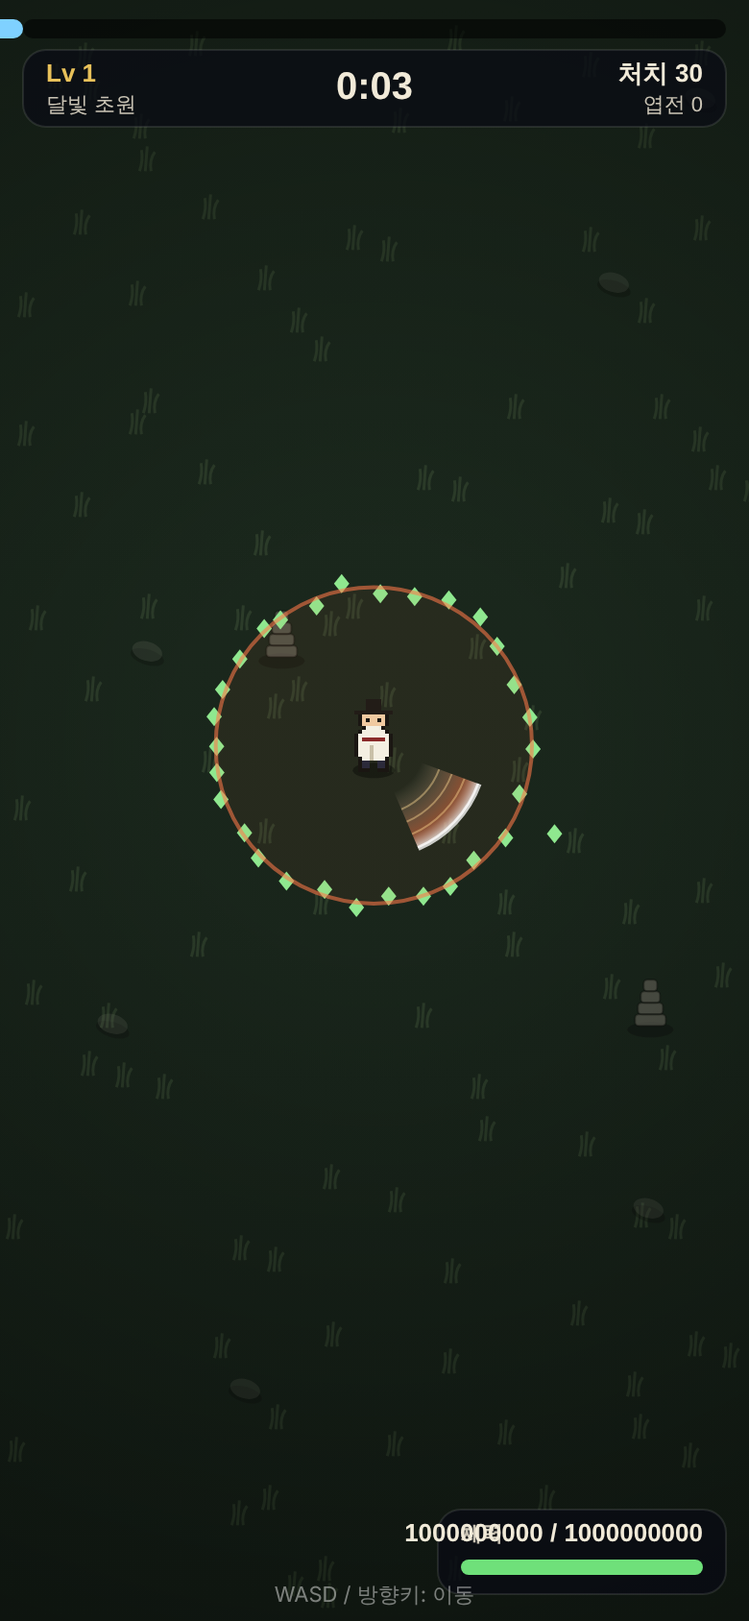
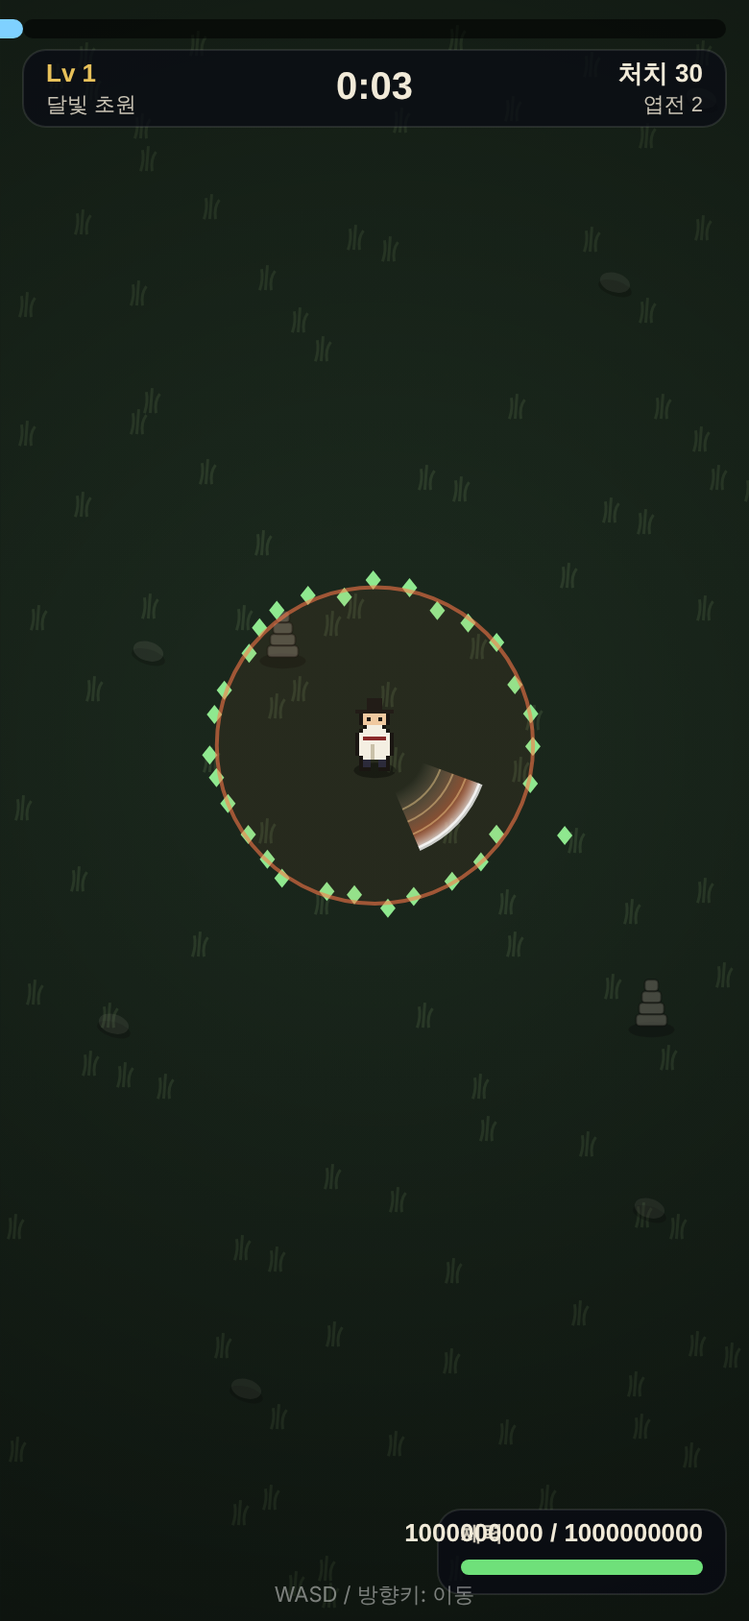
밤의 퇴마사 M4①: 런 슬롯 무기5/패시브5, 패시브 +4(도롱이·소금 주머니·녹두·부적 가방), 중립 무기 2(종이 호랑이·쑥뜸 연기)
Claude-Session: https://claude.ai/code/session_01RmJvEQYZMU41pMZMsu4AKq

diff --git a/games/night-exorcist/index.html b/games/night-exorcist/index.html
@@ -39,7 +39,7 @@
   .tabs { display:flex; gap:6px; margin-bottom:12px; } .tabs button { flex:1; min-height:40px; font-size:13px; padding:0 4px; } .tabs button.on { background:rgba(232,193,90,.22); }
   .grid { display:grid; grid-template-columns:repeat(4,1fr); gap:8px; } .grid .w { background:rgba(255,255,255,.06); border:1px solid rgba(255,255,255,.12); border-radius:12px; padding:8px 4px; text-align:center; font-size:12px; color:#f1ead8; min-height:72px; box-shadow:none; font-weight:500; }
   .grid .w.in { border-color:#e8c15a; background:rgba(232,193,90,.18); } .grid .w.off { opacity:.35; } .grid .w small { display:block; font-size:10px; color:#c9c3b4; margin-top:2px; } .grid .w canvas { width:28px; height:28px; display:block; margin:0 auto 2px; }
-  .el-fire { color:#ff7a4a } .el-water { color:#5fc8ff } .el-wood { color:#7fe06a } .el-metal { color:#d8d8e8 }
+  .el-fire { color:#ff7a4a } .el-water { color:#5fc8ff } .el-wood { color:#7fe06a } .el-metal { color:#d8d8e8 } .el-none { color:#c9c3b4 }
   #shrine { max-height:88vh; overflow-y:auto; } .big.sm { min-height:44px; font-size:15px; margin-top:8px; }
   .rank { font-size:13px; padding:6px 0; border-bottom:1px solid rgba(255,255,255,.08); display:flex; justify-content:space-between; }
   @media (prefers-reduced-motion: reduce) { .panel { transition:none; } }
@@ -230,10 +230,17 @@ const WEAPONS = [
   { id:'coin',     el:'metal', type:'throw', name:'엽전표창', desc:'빠르게 날아가 튕겨 나간다',                   cd:.6, dmg:8, spd:460, pierce:1, max:5, up:'피해 +25% · 관통 +1' },
   { id:'sickle',   el:'metal', type:'melee', name:'낫',       desc:'앞을 깊게 베고 밀쳐낸다',                    cd:1.3, dmg:18, arc:1.3, range:70, max:5, up:'피해 +25% · 범위 +12%' },
   { id:'bell',     el:'metal', type:'aura',  name:'방울',     desc:'주변 요괴를 계속 흔들어 느리게 한다',         cd:.5, dmg:4, range:70, slow:.2, max:5, up:'피해 +25% · 반경 +12%' },
+  // 중립(무속성·무타입): 상성 ×1 고정, 불리 없음, 진화 문법 제외
+  { id:'tiger',    neutral:true, kind:'pet',  name:'종이 호랑이', desc:'종이 호랑이가 곁을 돌며 요괴를 문다 (상성 없음)', cd:.55, dmg:9, orbit:54, max:5, up:'피해 +25% · 호랑이 +1 (3·5단)' },
+  { id:'moxa',     neutral:true, kind:'aura', name:'쑥뜸 연기',   desc:'연기 안의 요괴에게 피해, 안에서 처치하면 체력 +2 (상성 없음)', cd:.6, dmg:3, range:62, max:5, up:'피해 +25% · 반경 +12%' },
 ];
+const NEUTRALS = WEAPONS.filter(w => w.neutral);
+const gachaPool = () => WEAPONS.filter(w => !w.unlock || META.bestStage >= w.unlock);   // unlock: 해당 스테이지 클리어 후 뽑기 풀에 등장
 const WBY = Object.fromEntries(WEAPONS.map(w => [w.id, w]));
+const wTag = w => w.neutral ? '중립' : `${EL_NAME[w.el]}·${TYPE_NAME[w.type]}`;
 const elMul = (we, el) => el === 'none' || we === el ? 1 : BEATS[we] === el ? 1.5 : BEATS[el] === we ? .6 : 1;
 const affinity = (w, o) => { const el = o.el || (o.d && o.d.el) || 'none', armor = o.armor || (o.d && o.d.armor) || 'none';
+  if (w.neutral) return 1;
   if (w.els) return Math.max(1, ...w.els.map(we => elMul(we, el))) * Math.max(1, ...w.types.map(t => TYPE_VS[t][armor] || 1));   // 진화: 불리 없음
   return elMul(w.el, el) * (TYPE_VS[w.type][armor] || 1); };
 // ── 진화: 2단 = 같은 속성·다른 타입 쌍(12) + 같은 타입·다른 속성 쌍(18) · 3단 = 속성 삼위일체(4) + 타입 사원소(3). 런 안에서 부모 Lv5 → 자식 Lv1, 부모 소모
@@ -248,7 +255,7 @@ const EVO_NAME = {
   'aura:fire+water':'온천 안개', 'aura:fire+wood':'향로 염주', 'aura:fire+metal':'화로 방울', 'aura:water+wood':'안개 염주', 'aura:water+metal':'물방울 종', 'aura:wood+metal':'염주 방울',
   'fire:all':'삼매진화', 'water:all':'용궁 해일', 'wood:all':'천년 신목', 'metal:all':'만금 종', 'throw:all':'사원소 표창', 'melee:all':'사원소 검', 'aura:all':'사원소 결계' };
 const ELS = ['fire', 'water', 'wood', 'metal'], TYPES = ['throw', 'melee', 'aura'];
-const baseOf = (el, type) => WEAPONS.find(w => w.el === el && w.type === type);
+const baseOf = (el, type) => WEAPONS.find(w => !w.neutral && w.el === el && w.type === type);
 const EVOS = []; // { id, name, tier, parents:[ids], parts:[base ids], els, types, max:5 }
 for (const el of ELS) for (let i = 0; i < 3; i++) for (let j = i + 1; j < 3; j++) { const a = baseOf(el, TYPES[i]), b = baseOf(el, TYPES[j]); EVOS.push({ id:`e:${el}:${TYPES[i]}+${TYPES[j]}`, name:EVO_NAME[`${el}:${TYPES[i]}+${TYPES[j]}`], tier:2, parents:[a.id, b.id], parts:[a.id, b.id], els:[el], types:[TYPES[i], TYPES[j]], max:5, up:'피해 +25%' }); }
 for (const type of TYPES) for (let i = 0; i < 4; i++) for (let j = i + 1; j < 4; j++) { const a = baseOf(ELS[i], type), b = baseOf(ELS[j], type); EVOS.push({ id:`e:${type}:${ELS[i]}+${ELS[j]}`, name:EVO_NAME[`${type}:${ELS[i]}+${ELS[j]}`], tier:2, parents:[a.id, b.id], parts:[a.id, b.id], els:[ELS[i], ELS[j]], types:[type], max:5, up:'피해 +25%' }); }
@@ -273,11 +280,17 @@ const trainCost = lv => Math.round(40 * Math.pow(1.6, lv));   // 0→1 40, 1→2
 const GACHA_COST = 10;
 const CLEAR_PULLS = [3, 6, 12];   // 스테이지별 클리어 뽑기권
 const PASSIVES = [
-  { id:'spd',  name:'짚신',       desc:'이동 속도 +10%', max:5 },
-  { id:'hp',   name:'산삼',       desc:'최대 체력 +15%, 즉시 회복', max:5 },
-  { id:'cd',   name:'호랑이 담배', desc:'모든 무기 재사용 −8%', max:5 },
-  { id:'pick', name:'자석 호리병', desc:'보석 줍는 범위 +30%', max:5 },
+  { id:'spd',   name:'짚신',       desc:'이동 속도 +10%', max:5 },
+  { id:'hp',    name:'산삼',       desc:'최대 체력 +15%, 즉시 회복', max:5 },
+  { id:'cd',    name:'호랑이 담배', desc:'모든 무기 재사용 −8%', max:5 },
+  { id:'pick',  name:'자석 호리병', desc:'보석 줍는 범위 +30%', max:5 },
+  { id:'armor', name:'도롱이',     desc:'받는 피해 −8%', max:5 },
+  { id:'salt',  name:'소금 주머니', desc:'닿은 요괴를 밀치고 잠깐 멈춤', max:3, up:'밀침 +40% · 경직 +0.2초' },
+  { id:'xp',    name:'녹두',       desc:'경험치 +10%', max:5 },
+  { id:'bag',   name:'부적 가방',   desc:'투척 무기 투사체 +1 (3단마다 +1 더)', max:3, up:'투사체 +1' },
 ];
+const SLOTS = { w:5, p:5 };   // 런 슬롯
+const PBY = Object.fromEntries(PASSIVES.map(p => [p.id, p]));
 
 // ───────── 상태·풀 ─────────
 const S = { mode:'menu', t:0, stage:0, lvl:1, xp:0, need:C.LVL_XP0, kills:0, coins:0, hp:100, maxhp:100, pw:1, spawnAcc:0, bossDone:[false,false], cleared:false, dead:false, hitT:0, slowT:0, burnT:0, eliteIdx:0, shardsRun:0, deck:['talisman'], freeze:0, shake:0, flash:0, chal:null };
@@ -319,6 +332,8 @@ const stageMul = () => STAGES[S.stage].mul;
 const enemyHp = t => C.HP0 * Math.pow(C.HP_G, t) * stageMul();
 const spawnRate = t => C.SPAWN0 + C.SPAWN_K * t;
 const cdMul = () => Math.pow(.92, P.p.cd || 0);
+const dmgTaken = () => Math.pow(.92, P.p.armor || 0);
+const xpMul = () => 1 + .1 * (P.p.xp || 0);
 const dmgOf = (w, owner = w) => w.dmg * Math.pow(1.25, (P.w[owner.id] || 1) - 1) * mAtk() * (1 + .05 * (owner.parts ? owner.parts.reduce((a, p) => a + mastery(p), 0) / owner.parts.length : mastery(w.id))) * (TIER_MUL[owner.tier] || 1);
 const rangeOf = (w, owner = w) => w.range * Math.pow(1.12, (P.w[owner.id] || 1) - 1);
 
@@ -326,7 +341,7 @@ const rangeOf = (w, owner = w) => w.range * Math.pow(1.12, (P.w[owner.id] || 1) 
 function spawn(type, boss, elite) {
   const d = ENEMY[type], st = STAGES[S.stage]; let a = rnd() * 6.283, R = Math.hypot(W, H) * .55 + 30, x = P.x + Math.cos(a) * R, y = P.y + Math.sin(a) * R;
   if (st.bound) { if (Math.abs(y) > st.bound - 20) { x = P.x + (Math.random() < .5 ? -1 : 1) * (W * .6 + 40); y = (Math.random() * 2 - 1) * (st.bound - 30); } }
-  return acquire(E, E_FREE, o => { o.type = type; o.d = d; o.x = x; o.y = y; o.hp = enemyHp(S.t) * d.hp * (elite ? 12 : 1); o.maxhp = o.hp; o.r = d.r * (elite ? 1.4 : 1); o.hit = 0; o.hop = Math.random() * 6.28; o.slow = 0; o.kx = 0; o.ky = 0; o.boss = !!boss; o.elite = !!elite; o.ph = Math.random() * 6.28; o.chargeT = 3; o.charging = 0; o.patT = 2.5; o.burn = 0; o.touchCd = 0; o.el = d.el || st.els[Math.floor(rnd() * st.els.length)]; });
+  return acquire(E, E_FREE, o => { o.type = type; o.d = d; o.x = x; o.y = y; o.hp = enemyHp(S.t) * d.hp * (elite ? 12 : 1); o.maxhp = o.hp; o.r = d.r * (elite ? 1.4 : 1); o.hit = 0; o.hop = Math.random() * 6.28; o.slow = 0; o.kx = 0; o.ky = 0; o.boss = !!boss; o.elite = !!elite; o.ph = Math.random() * 6.28; o.chargeT = 3; o.charging = 0; o.patT = 2.5; o.burn = 0; o.touchCd = 0; o.stun = 0; o.el = d.el || st.els[Math.floor(rnd() * st.els.length)]; });
 }
 function updateEnemies(dt) {
   // 스폰
@@ -340,7 +355,7 @@ function updateEnemies(dt) {
   let contacts = 0;
   for (let i = E.length - 1; i >= 0; i--) {
     const o = E[i]; const dx = P.x - o.x, dy = P.y - o.y, dist = Math.hypot(dx, dy) || 1;
-    let sp = o.d.spd * (o.slow > 0 ? 1 - .2 : 1); if (o.d.hop) { o.hop += dt * 5; sp *= Math.max(0, Math.sin(o.hop)) * 2.2; }
+    if (o.stun > 0) { o.stun -= dt; } let sp = o.stun > 0 ? 0 : o.d.spd * (o.slow > 0 ? 1 - .2 : 1); if (o.d.hop) { o.hop += dt * 5; sp *= Math.max(0, Math.sin(o.hop)) * 2.2; }
     sp *= ARMOR_SPD[o.d.armor] || 1; if (o.elite) sp *= .9;
     if (o.boss) { // 패턴 1: 돌진 (공통) · 패턴 2: 투사체(두억시니) / 물웅덩이(이무기)
       o.chargeT -= dt; if (o.chargeT <= 0) { o.charging = .7; o.chargeT = 3.2 + Math.random(); SND.boss(); } if (o.charging > 0) { o.charging -= dt; sp *= 3.2; }
@@ -353,12 +368,12 @@ function updateEnemies(dt) {
     collideObst(o); if (STAGES[S.stage].bound) o.y = Math.max(-STAGES[S.stage].bound + o.r, Math.min(STAGES[S.stage].bound - o.r, o.y));
     // 접촉 (+ 보스 속성 디버프: 화 → 화상, 수 → 둔화)
     if (o.touchCd > 0) o.touchCd -= dt;
-    if (dist < o.r + P.r && contacts < 8 && o.touchCd <= 0) { contacts++; o.touchCd = 1; const dmg = C.CONTACT * (o.boss ? 2.7 : o.elite ? 2 : 1); S.hp -= dmg; S.hitT = .2; S.shake = Math.max(S.shake, o.boss ? 5 : 2); P.x -= dx / dist * (o.boss ? 22 : 10); P.y -= dy / dist * (o.boss ? 22 : 10);
+    if (dist < o.r + P.r && contacts < 8 && o.touchCd <= 0) { contacts++; o.touchCd = 1; const dmg = C.CONTACT * (o.boss ? 2.7 : o.elite ? 2 : 1) * dmgTaken(); S.hp -= dmg; if (P.p.salt) { const pw = 1 + .4 * (P.p.salt - 1); o.kx -= dx / dist * 260 * pw; o.ky -= dy / dist * 260 * pw; o.stun = Math.max(o.stun || 0, .4 + .2 * (P.p.salt - 1)); } S.hitT = .2; S.shake = Math.max(S.shake, o.boss ? 5 : 2); P.x -= dx / dist * (o.boss ? 22 : 10); P.y -= dy / dist * (o.boss ? 22 : 10);
       float(P.x + (Math.random() - .5) * 24, P.y - 26, '-' + Math.round(dmg), '#ff6a5a', o.boss ? 16 : 13); SND.hurt(); if (o.boss) { if (o.el === 'fire') S.burnT = 3; if (o.el === 'water') S.slowT = 2; } }
     if (dist > Math.hypot(W, H) * .9) { release(E, E_FREE, i); } // 너무 멀면 회수 → 재스폰
   }
   // 적 투사체
-  for (let i = EB.length - 1; i >= 0; i--) { const b = EB[i]; b.x += b.vx * dt; b.y += b.vy * dt; b.life -= dt; if (b.life <= 0) { EB.splice(i, 1); continue; } if (Math.hypot(b.x - P.x, b.y - P.y) < P.r + 6) { S.hp -= 9; S.hitT = .2; S.burnT = Math.max(S.burnT, 2); SND.hurt(); burst(b.x, b.y, 6, '#ff7a4a', 90); EB.splice(i, 1); } }
+  for (let i = EB.length - 1; i >= 0; i--) { const b = EB[i]; b.x += b.vx * dt; b.y += b.vy * dt; b.life -= dt; if (b.life <= 0) { EB.splice(i, 1); continue; } if (Math.hypot(b.x - P.x, b.y - P.y) < P.r + 6) { S.hp -= 9 * dmgTaken(); S.hitT = .2; S.burnT = Math.max(S.burnT, 2); SND.hurt(); burst(b.x, b.y, 6, '#ff7a4a', 90); EB.splice(i, 1); } }
   // 장판 (물웅덩이: 안에 있으면 둔화)
   for (let i = ZONE.length - 1; i >= 0; i--) { const z = ZONE[i]; z.life -= dt; if (z.life <= 0) { ZONE.splice(i, 1); continue; } if (Math.hypot(z.x - P.x, z.y - P.y) < z.r) S.slowT = Math.max(S.slowT, .3); }
   // 상자
@@ -377,7 +392,7 @@ function openChest(c) {
   const list = document.getElementById('chList'); list.innerHTML = '';
   for (const x of got) { const row = document.createElement('div'); row.className = 'card'; row.style.cursor = 'default';
     if (x.coin) { row.innerHTML = `<canvas class="ic" width="88" height="88"></canvas><span><b>엽전 +${x.coin}</b><small>강화할 무기가 없어 엽전으로</small></span>`; drawIcon(row.querySelector('canvas'), { d:WBY.coin }); }
-    else { const maxed = x.to >= x.w.max; row.innerHTML = `<canvas class="ic" width="88" height="88"></canvas><span><b>${x.w.name} <small class="el-${x.w.el || ''}">${x.w.el ? EL_NAME[x.w.el] + '·' + TYPE_NAME[x.w.type] : x.w.tier + '단'}</small></b><small>${x.w.up}${maxed ? ' · <b style="color:#e8c15a">최대</b>' : ''}</small></span><span class="lvl">Lv ${x.from} → ${x.to}</span>`; drawIcon(row.querySelector('canvas'), { d:x.w }); }
+    else { const maxed = x.to >= x.w.max; row.innerHTML = `<canvas class="ic" width="88" height="88"></canvas><span><b>${x.w.name} <small class="el-${x.w.el || ''}">${x.w.parts ? x.w.tier + '단' : wTag(x.w)}</small></b><small>${x.w.up}${maxed ? ' · <b style="color:#e8c15a">최대</b>' : ''}</small></span><span class="lvl">Lv ${x.from} → ${x.to}</span>`; drawIcon(row.querySelector('canvas'), { d:x.w }); }
     list.appendChild(row); }
   show('chest', true);
 }
@@ -426,9 +441,20 @@ function hitWith(o, w, dmg, kx, ky, owner = w) { // 상성(owner)·속성 효과
 function firePart(w, owner, lv, dt) { // 기본 무기 w 의 공격 1회 (owner = w 또는 진화 무기)
   const key = owner.id === w.id ? w.id : owner.id + ':' + w.id;
   WCD[key] = (WCD[key] || 0) - dt; if (WCD[key] > 0) return;
+  if (w.kind === 'pet') { // 종이 호랑이: 궤도 위 호랑이 n마리가 닿는 요괴를 문다
+    WCD[key] = w.cd * cdMul(); const n = 1 + (lv >= 3 ? 1 : 0) + (lv >= 5 ? 1 : 0), dmg = dmgOf(w, owner); let any = false;
+    for (let k = 0; k < n; k++) { const a = S.t * 2.2 + k * 6.283 / n, px = P.x + Math.cos(a) * w.orbit, py = P.y + Math.sin(a) * w.orbit * .7;
+      for (let i = E.length - 1; i >= 0; i--) { const o = E[i]; if ((o.x - px) ** 2 + (o.y - py) ** 2 < (o.r + 14) ** 2) { any = true; hitWith(o, w, dmg, (o.x - px) * 4, (o.y - py) * 4, owner); burst(o.x, o.y, 2, '#f2d26a', 70); } } }
+    if (any) SND.sword(); return;
+  }
+  if (w.kind === 'aura') { // 쑥뜸 연기: 오라 + 안에서 처치 시 회복
+    WCD[key] = w.cd * cdMul(); const R = rangeOf(w, owner), dmg = dmgOf(w, owner);
+    for (let i = E.length - 1; i >= 0; i--) { const o = E[i]; if (Math.hypot(o.x - P.x, o.y - P.y) <= R + o.r) { if (hitWith(o, w, dmg, 0, 0, owner)) { S.hp = Math.min(S.maxhp, S.hp + 2); float(P.x, P.y - 30, '+2', '#8ff0b0', 11); } } }
+    return;
+  }
   if (w.type === 'throw') {
     const tg = nearest(260); if (!tg) { WCD[key] = .15; return; } WCD[key] = w.cd * cdMul();
-    const a = Math.atan2(tg.y - P.y, tg.x - P.x), n = lv >= 4 ? 2 : 1, pierce = w.pierce + lv - 1;
+    const a = Math.atan2(tg.y - P.y, tg.x - P.x), n = (lv >= 4 ? 2 : 1) + (P.p.bag || 0), pierce = w.pierce + lv - 1;
     for (let k = 0; k < n; k++) { const aa = a + (k - (n - 1) / 2) * .25; acquire(B, B_FREE, b => { b.w = w; b.owner = owner; b.x = P.x; b.y = P.y; b.vx = Math.cos(aa) * w.spd; b.vy = Math.sin(aa) * w.spd; b.a = aa; b.life = 1.4; b.pierce = pierce; b.dmg = dmgOf(w, owner); b.hitSet = new Set(); b.bounce = w.id === 'coin' ? 1 : 0; }); }
     SND.talisman();
   } else if (w.type === 'melee') {
@@ -458,17 +484,17 @@ function updateGems(dt) {
   const pr = P.pick * mPick() * Math.pow(1.3, P.p.pick || 0);
   for (let i = G.length - 1; i >= 0; i--) { const g = G[i], dx = P.x - g.x, dy = P.y - g.y, d = Math.hypot(dx, dy); g.t += dt;
     if (d < pr) g.mag = true; if (g.mag) { const sp = 260 + g.t * 200; g.x += dx / d * sp * dt; g.y += dy / d * sp * dt; }
-    if (d < 14) { S.xp += g.v; SND.gem(); release(G, G_FREE, i); } }
+    if (d < 14) { S.xp += g.v * xpMul(); SND.gem(); release(G, G_FREE, i); } }
   if (S.xp >= S.need) { S.xp -= S.need; S.lvl++; S.need = C.LVL_XP0 * Math.pow(C.LVL_XP_G, S.lvl - 1); levelUp(); }
 }
 function choices() {
   const pool = [];
   const nW = Object.keys(P.w).length;
-  for (const id of S.deck) { const w = WBY[id]; if (!w) continue; const lv = P.w[w.id] || 0; if (lv >= w.max) continue; if (!lv && (nW >= 4 || P.used.has(id))) continue; pool.push({ kind:'w', d:w, lv }); }
+  for (const id of S.deck) { const w = WBY[id]; if (!w) continue; const lv = P.w[w.id] || 0; if (lv >= w.max) continue; if (!lv && (nW >= SLOTS.w || P.used.has(id))) continue; pool.push({ kind:'w', d:w, lv }); }
   for (const id in P.w) { const e = EBY[id]; if (!e) continue; const lv = P.w[id]; if (lv < e.max) pool.push({ kind:'w', d:e, lv }); }
   const evos = evoOptions();
   const nP = Object.keys(P.p).length;
-  for (const p of PASSIVES) { const lv = P.p[p.id] || 0; if (lv >= p.max) continue; if (!lv && nP >= 3) continue; pool.push({ kind:'p', d:p, lv }); }
+  for (const p of PASSIVES) { const lv = P.p[p.id] || 0; if (lv >= p.max) continue; if (!lv && nP >= SLOTS.p) continue; pool.push({ kind:'p', d:p, lv }); }
   for (let i = pool.length - 1; i > 0; i--) { const j = Math.floor(rnd() * (i + 1)); [pool[i], pool[j]] = [pool[j], pool[i]]; }
   const out = pool.slice(0, evos.length ? 2 : 3);
   if (evos.length) { const ev = evos[Math.floor(rnd() * evos.length)]; out.unshift({ kind:'e', d:ev.e, consume:ev.consume, lv:0 }); }
@@ -479,7 +505,7 @@ function levelUp() {
   S.mode = 'lv'; S.flash = 1; SND.levelup(); const ch = choices(); const box = document.getElementById('lvCards'); box.innerHTML = '';
   if (!ch.length) { S.mode = 'play'; S.coins += 5; float(P.x, P.y - 30, '엽전 +5', '#e8c15a'); return; }
   for (const c of ch) { const b = document.createElement('button'); b.className = 'card'; b.innerHTML = `<canvas class="ic" width="88" height="88"></canvas><span><b>${c.d.name}</b><small>${c.lv ? c.d.up || c.d.desc : c.d.desc}</small></span><span class="lvl">${c.lv ? `Lv ${c.lv}→${c.lv + 1}` : '새로 익힘'}</span>`;
-    if (c.kind === 'w' && c.d.el) b.querySelector('b').innerHTML += ` <small class="el-${c.d.el}">${EL_NAME[c.d.el]}·${TYPE_NAME[c.d.type]}</small>`;
+    if (c.kind === 'w' && (c.d.el || c.d.neutral)) b.querySelector('b').innerHTML += ` <small class="el-${c.d.el || 'none'}">${wTag(c.d)}</small>`;
     if (c.kind === 'w' && c.d.els) b.querySelector('b').innerHTML += ` <small>${c.d.els.map(e => `<span class="el-${e}">${EL_NAME[e]}</span>`).join('')}·${c.d.types.map(t => TYPE_NAME[t]).join('')}</small>`;
     if (c.kind === 'e') { b.style.borderColor = '#e8c15a'; b.style.background = 'rgba(232,193,90,.14)'; b.querySelector('b').innerHTML = `✦ 진화: ${c.d.name}`; b.querySelector('.lvl').textContent = `${c.d.tier}단`; b.querySelector('small').textContent = `${c.consume.map(id => weaponOf(id).name).join(' + ')} → ${c.d.name} · ${c.d.desc}`; }
     b.addEventListener('click', () => pick(c)); box.appendChild(b); drawIcon(b.querySelector('canvas'), c); }
@@ -494,8 +520,8 @@ function applyPassives() { P.spd = C.SPEED * mSpd() * Math.pow(1.1, P.p.spd || 0
 function updatePlayer(dt) {
   const v = inputVec(); P.moving = v.x || v.y; const spd = P.spd * (S.slowT > 0 ? .65 : 1); if (P.moving) { P.x += v.x * spd * dt; P.y += v.y * spd * dt; P.dx = v.x; P.dy = v.y; P.walk += dt * 9; }
   collideObst(P); const st = STAGES[S.stage]; if (st.bound) P.y = Math.max(-st.bound + P.r, Math.min(st.bound - P.r, P.y));
-  for (const b of nearObst(P.x, P.y)) if (b.hazard && Math.hypot(P.x - b.x, P.y - b.y) < b.r) { S.hp -= 6 * dt; S.hitT = .15; S.burnT = Math.max(S.burnT, .5); }
-  if (S.burnT > 0) { S.burnT -= dt; S.hp -= 1.2 * dt; if (Math.random() < dt * 8) burst(P.x + (Math.random()-.5)*10, P.y - 10, 1, '#ff9a4a', 40); } if (S.slowT > 0) S.slowT -= dt;
+  for (const b of nearObst(P.x, P.y)) if (b.hazard && Math.hypot(P.x - b.x, P.y - b.y) < b.r) { S.hp -= 6 * dt * dmgTaken(); S.hitT = .15; S.burnT = Math.max(S.burnT, .5); }
+  if (S.burnT > 0) { S.burnT -= dt; S.hp -= 1.2 * dt * dmgTaken(); if (Math.random() < dt * 8) burst(P.x + (Math.random()-.5)*10, P.y - 10, 1, '#ff9a4a', 40); } if (S.slowT > 0) S.slowT -= dt;
   S.hp = Math.min(S.maxhp, S.hp + C.REGEN * mRegen() * dt); if (S.hitT > 0) S.hitT -= dt;
   cam.x += (P.x - cam.x) * Math.min(1, dt * 8); cam.y += (P.y - cam.y) * Math.min(1, dt * 8);
 }
@@ -640,6 +666,12 @@ function drawIcon(c, ch, sc = 2) { const d = ch.d;
   if (d.parts) { const x = c.getContext('2d'); x.clearRect(0, 0, c.width, c.height); x.save(); x.translate(c.width / 2, c.height / 2); x.strokeStyle = d.tier === 3 ? '#ffd86a' : '#c9a66b'; x.lineWidth = c.width * .05; x.beginPath(); x.arc(0, 0, c.width * .44, 0, 6.283); x.stroke(); x.restore();
     const n = d.parts.length, k = n <= 2 ? .85 : .65; d.parts.forEach((pid, i) => { const a = (n <= 2 ? 2.356 : -1.571) + i * 6.283 / n, cx = c.width / 2 + Math.cos(a) * c.width * (n <= 2 ? .17 : .24), cy = c.height / 2 + Math.sin(a) * c.height * (n <= 2 ? .17 : .24); const tmp = document.createElement('canvas'); tmp.width = c.width; tmp.height = c.height; drawIcon(tmp, { d:WBY[pid] }, sc); x.drawImage(tmp, cx - c.width * k / 2, cy - c.height * k / 2, c.width * k, c.height * k); }); return; }
   const x = c.getContext('2d'); x.clearRect(0, 0, c.width, c.height); x.scale(sc, sc); x.translate(c.width / sc / 2, c.height / sc / 2); const ec = EL_COL[d.el] || '#e8c15a';
+  if (d.id === 'tiger') { x.fillStyle = '#f2b24a'; x.beginPath(); x.ellipse(-2, 2, 13, 8, 0, 0, 6.283); x.fill(); x.fillStyle = '#1a1612'; for (let s2 = -8; s2 <= 6; s2 += 4) x.fillRect(s2, -3, 2, 10); x.fillStyle = '#f2b24a'; x.beginPath(); x.arc(11, -3, 7, 0, 6.283); x.fill(); x.fillStyle = '#fff'; x.fillRect(12, -5, 3, 3); x.fillStyle = '#1a1612'; x.fillRect(13, -5, 1, 1); return; }
+  if (d.id === 'moxa') { x.fillStyle = '#5a4a3a'; x.fillRect(-4, 2, 8, 12); x.fillStyle = '#ff7a4a'; x.fillRect(-2, 0, 4, 3); x.strokeStyle = 'rgba(200,224,176,.8)'; x.lineWidth = 3; x.beginPath(); x.moveTo(0, -2); x.quadraticCurveTo(-8, -10, 0, -16); x.quadraticCurveTo(8, -22, 2, -28); x.stroke(); return; }
+  if (d.id === 'armor') { x.fillStyle = '#9a7a3a'; x.beginPath(); x.moveTo(0, -16); x.lineTo(14, 14); x.lineTo(-14, 14); x.fill(); x.strokeStyle = '#5a4420'; x.lineWidth = 1.5; for (let y = -8; y <= 10; y += 6) { x.beginPath(); x.moveTo(-y * .9 - 1, y); x.lineTo(y * .9 + 1, y); x.stroke(); } return; }
+  if (d.id === 'salt') { x.fillStyle = '#c9b48a'; x.beginPath(); x.moveTo(-10, -4); x.quadraticCurveTo(-12, 14, 0, 14); x.quadraticCurveTo(12, 14, 10, -4); x.fill(); x.fillStyle = '#8a7050'; x.fillRect(-7, -8, 14, 5); x.fillStyle = '#fff'; for (const [px, py] of [[-4, 2], [3, 5], [0, 8]]) x.fillRect(px, py, 2, 2); return; }
+  if (d.id === 'xp') { x.fillStyle = '#7fe06a'; for (const [px, py] of [[-7, -4], [3, -8], [-2, 4], [8, 2], [-9, 8]]) { x.beginPath(); x.ellipse(px, py, 5, 4, .4, 0, 6.283); x.fill(); } return; }
+  if (d.id === 'bag') { x.fillStyle = '#8a5a2a'; x.fillRect(-12, -6, 24, 20); x.fillStyle = '#5a3a1a'; x.fillRect(-12, -6, 24, 5); x.fillStyle = '#f2d26a'; x.fillRect(-6, -14, 5, 10); x.fillRect(2, -16, 5, 12); x.strokeStyle = '#c0362a'; x.lineWidth = 1; x.strokeRect(3, -14, 3, 7); return; }
   if (d.type === 'throw' && d.id !== 'talisman') { x.fillStyle = ec; if (d.id === 'orb') { x.beginPath(); x.arc(0, 0, 12, 0, 6.283); x.fill(); x.fillStyle = '#fff'; x.beginPath(); x.arc(-4, -4, 4, 0, 6.283); x.fill(); } else if (d.id === 'spear') { x.rotate(-.8); x.fillRect(-2, -18, 4, 34); x.beginPath(); x.moveTo(-5, -16); x.lineTo(0, -26); x.lineTo(5, -16); x.fill(); } else { x.beginPath(); x.arc(0, 0, 12, 0, 6.283); x.fill(); x.fillStyle = '#1a1408'; x.fillRect(-4, -4, 8, 8); x.strokeStyle = '#9a7a22'; x.lineWidth = 2; x.beginPath(); x.arc(0, 0, 12, 0, 6.283); x.stroke(); } return; }
   if (d.type === 'melee' && d.id !== 'sword') { x.rotate(-.7); if (d.id === 'torch') { x.fillStyle = '#6a4a2a'; x.fillRect(-3, -4, 6, 22); x.fillStyle = '#ff7a4a'; x.beginPath(); x.moveTo(-8, -4); x.quadraticCurveTo(0, -26, 8, -4); x.fill(); x.fillStyle = '#ffd86a'; x.beginPath(); x.moveTo(-4, -4); x.quadraticCurveTo(0, -16, 4, -4); x.fill(); } else if (d.id === 'whip') { x.strokeStyle = ec; x.lineWidth = 4; x.beginPath(); x.moveTo(-12, 14); x.quadraticCurveTo(-6, -10, 6, -2); x.quadraticCurveTo(14, 4, 12, -14); x.stroke(); } else { x.strokeStyle = ec; x.lineWidth = 5; x.beginPath(); x.arc(2, -2, 12, 3.6, 6.4); x.stroke(); x.fillStyle = '#6a4a2a'; x.fillRect(-2, 6, 4, 14); } return; }
   if (d.type === 'aura' && d.id !== 'bell') { if (d.id === 'brazier') { x.fillStyle = '#5a4a3a'; x.beginPath(); x.moveTo(-12, 2); x.lineTo(12, 2); x.lineTo(8, 14); x.lineTo(-8, 14); x.fill(); x.fillStyle = '#ff7a4a'; x.beginPath(); x.moveTo(-9, 2); x.quadraticCurveTo(-6, -14, 0, -18); x.quadraticCurveTo(6, -14, 9, 2); x.fill(); x.fillStyle = '#ffd86a'; x.beginPath(); x.moveTo(-4, 2); x.quadraticCurveTo(0, -8, 4, 2); x.fill(); } else if (d.id === 'mist') { x.fillStyle = 'rgba(95,200,255,.5)'; for (const [cx, cy, r] of [[-8, 2, 8], [4, -4, 10], [8, 6, 7]]) { x.beginPath(); x.arc(cx, cy, r, 0, 6.283); x.fill(); } } else { x.strokeStyle = '#8a6a3a'; x.lineWidth = 2; x.beginPath(); x.arc(0, 0, 13, 0, 6.283); x.stroke(); for (let k = 0; k < 8; k++) { x.fillStyle = '#c9a66b'; x.beginPath(); x.arc(Math.cos(k * .785) * 13, Math.sin(k * .785) * 13, 3.5, 0, 6.283); x.fill(); } } return; }
@@ -669,6 +701,8 @@ function draw() {
   // 보석
   for (const g of G) { const x = sx(g.x), y = sy(g.y); if (x < -20 || x > W + 20 || y < -20 || y > H + 20) continue; ctx.fillStyle = g.v >= 4 ? '#ff8aa0' : g.v >= 2 ? '#8fd1ff' : '#8fe88f'; ctx.beginPath(); ctx.moveTo(x, y - 5); ctx.lineTo(x + 4, y); ctx.lineTo(x, y + 5); ctx.lineTo(x - 4, y); ctx.closePath(); ctx.fill(); }
   // 방울 오라
+  if (P.w.tiger) { const lv = P.w.tiger, n = 1 + (lv >= 3 ? 1 : 0) + (lv >= 5 ? 1 : 0); for (let k = 0; k < n; k++) { const a = S.t * 2.2 + k * 6.283 / n, px = sx(P.x + Math.cos(a) * 54), py = sy(P.y + Math.sin(a) * 54 * .7); ctx.save(); ctx.translate(px, py); if (Math.cos(a) < 0) ctx.scale(-1, 1); ctx.fillStyle = '#f2b24a'; ctx.beginPath(); ctx.ellipse(0, 0, 11, 7, 0, 0, 6.283); ctx.fill(); ctx.fillStyle = '#1a1612'; for (let s2 = -6; s2 <= 6; s2 += 4) ctx.fillRect(s2, -5, 2, 10); ctx.fillStyle = '#f2b24a'; ctx.beginPath(); ctx.arc(10, -2, 6, 0, 6.283); ctx.fill(); ctx.fillStyle = '#fff'; ctx.fillRect(11, -4, 2, 2); ctx.fillStyle = '#1a1612'; ctx.fillRect(12, -4, 1, 1); ctx.restore(); } }
+  if (P.w.moxa) { const R = rangeOf(WBY.moxa); ctx.save(); ctx.globalAlpha = .18 + Math.sin(S.t * 3) * .05; ctx.fillStyle = '#c9e0b0'; ctx.beginPath(); ctx.arc(sx(P.x), sy(P.y), R, 0, 6.283); ctx.fill(); ctx.globalAlpha = .5; ctx.strokeStyle = '#c9e0b0'; ctx.setLineDash([4, 6]); ctx.lineWidth = 1.5; ctx.stroke(); ctx.restore(); }
   for (const id in P.w) { const ow = weaponOf(id); if (!ow || !P.w[id]) continue; for (const pid of (ow.parts || [id])) { const w = WBY[pid]; if (w.type !== 'aura') continue; const key = ow.id === w.id ? w.id : ow.id + ':' + w.id; const R = rangeOf(w, ow), p = (WCD[key] || 0) / (w.cd * cdMul()), ec = EL_COL[w.el]; ctx.strokeStyle = ec; ctx.globalAlpha = .25 + (1 - p) * .35; ctx.lineWidth = 2; ctx.beginPath(); ctx.arc(sx(P.x), sy(P.y), R * (1 - p * .08), 0, 6.283); ctx.stroke(); ctx.globalAlpha = .06; ctx.fillStyle = ec; ctx.fill(); ctx.globalAlpha = 1;
     if (pid === 'beads') for (let k = 0; k < 6; k++) { const a = t * 3 + k * 1.047; ctx.fillStyle = '#c9a66b'; ctx.beginPath(); ctx.arc(sx(P.x) + Math.cos(a) * R, sy(P.y) + Math.sin(a) * R * .6, 4, 0, 6.283); ctx.fill(); ctx.strokeStyle = 'rgba(0,0,0,.4)'; ctx.lineWidth = 1; ctx.stroke(); } } }
   // 적 (y 정렬)
@@ -782,15 +816,15 @@ function renderShrine() {
   else if (shTab === 'gacha') { const p = document.createElement('p'); p.className = 'sub'; p.textContent = `부적 조각 ${GACHA_COST}개로 무기 하나를 뽑습니다. 이미 가진 무기가 나오면 숙련 +1 (피해 +5%, 최대 10). 조각은 정예 1 · 보스 3 · 클리어 시 뽑기 ${CLEAR_PULLS.join('/')}회분(첫 클리어 2배).`; b.appendChild(p);
     const last = document.createElement('div'); last.id = 'gachaOut'; last.style.minHeight = '60px'; last.style.textAlign = 'center'; last.style.fontSize = '18px'; last.style.margin = '8px 0'; b.appendChild(last);
     const btn = document.createElement('button'); btn.id = 'gachaBtn'; btn.className = 'big sm'; btn.textContent = `뽑기 (${GACHA_COST} 조각)`; btn.disabled = META.shards < GACHA_COST; btn.style.opacity = btn.disabled ? .45 : 1; btn.addEventListener('click', () => gacha()); b.appendChild(btn);
-    const own = document.createElement('div'); own.className = 'grid'; own.style.marginTop = '12px'; own.innerHTML = WEAPONS.map(w => `<div class="w ${META.owned[w.id] == null ? 'off' : ''}"><canvas data-w="${w.id}" width="56" height="56"></canvas>${META.owned[w.id] == null ? '???' : w.name}<small class="el-${w.el}">${EL_NAME[w.el]}·${TYPE_NAME[w.type]}${META.owned[w.id] != null ? ' · 숙련 ' + META.owned[w.id] : ''}</small></div>`).join(''); b.appendChild(own); own.querySelectorAll('canvas').forEach(c => drawIcon(c, { d: WBY[c.dataset.w] }, 1.3)); }
+    const own = document.createElement('div'); own.className = 'grid'; own.style.marginTop = '12px'; own.innerHTML = gachaPool().map(w => `<div class="w ${META.owned[w.id] == null ? 'off' : ''}"><canvas data-w="${w.id}" width="56" height="56"></canvas>${META.owned[w.id] == null ? '???' : w.name}<small class="el-${w.el || 'none'}">${wTag(w)}${META.owned[w.id] != null ? ' · 숙련 ' + META.owned[w.id] : ''}</small></div>`).join(''); b.appendChild(own); own.querySelectorAll('canvas').forEach(c => drawIcon(c, { d: WBY[c.dataset.w] }, 1.3)); }
   else if (shTab === 'deck') { const p = document.createElement('p'); p.className = 'sub'; p.textContent = `출전 덱 ${META.deck.length}/10 — 런 중 3택1은 덱 안에서만 나옵니다. 첫 칸이 시작 무기. 요괴 속성·방어구를 보고 골고루 짜세요.`; b.appendChild(p);
-    const g = document.createElement('div'); g.className = 'grid'; for (const w of WEAPONS) { if (META.owned[w.id] == null) continue; const inDeck = META.deck.includes(w.id), el = document.createElement('button'); el.className = 'w' + (inDeck ? ' in' : ''); el.innerHTML = `<canvas width="56" height="56"></canvas>${w.name}<small class="el-${w.el}">${EL_NAME[w.el]}·${TYPE_NAME[w.type]}${inDeck ? ' · ' + (META.deck.indexOf(w.id) + 1) + '번' : ''}</small>`; drawIcon(el.querySelector('canvas'), { d:w }, 1.3);
+    const g = document.createElement('div'); g.className = 'grid'; for (const w of WEAPONS) { if (META.owned[w.id] == null) continue; const inDeck = META.deck.includes(w.id), el = document.createElement('button'); el.className = 'w' + (inDeck ? ' in' : ''); el.innerHTML = `<canvas width="56" height="56"></canvas>${w.name}<small class="el-${w.el || 'none'}">${wTag(w)}${inDeck ? ' · ' + (META.deck.indexOf(w.id) + 1) + '번' : ''}</small>`; drawIcon(el.querySelector('canvas'), { d:w }, 1.3);
       el.addEventListener('click', () => { if (inDeck) { if (META.deck.length > 1) META.deck = META.deck.filter(x => x !== w.id); else toast('무기는 하나 이상 넣어야 해요'); } else if (META.deck.length < 10) META.deck.push(w.id); else toast('덱은 10개까지'); saveMeta(); renderShrine(); }); g.appendChild(el); } b.appendChild(g);
     const h = document.createElement('p'); h.className = 'msg'; h.innerHTML = '상성: <span class="el-water">수</span>→<span class="el-fire">화</span>→<span class="el-metal">금</span>→<span class="el-wood">목</span>→<span class="el-water">수</span> (유리 ×1.5 / 불리 ×0.6) · 투척은 가벼운 요괴, 근접은 무거운 요괴, 오라는 보통 요괴에 강함'; b.appendChild(h); }
   else { const wh = document.createElement('p'); wh.className = 'msg'; wh.innerHTML = `<b style="color:#e8c15a">무기</b> · 기본 12 · 진화 ${META.evo.length}/${EVOS.length} 발견 — Lv5 둘을 합치면 진화`; b.appendChild(wh);
     const wg = document.createElement('div'); wg.className = 'grid'; wg.style.marginBottom = '8px';
     for (const w of [...WEAPONS, ...EVOS]) { const seen = w.parts ? META.evo.includes(w.id) : META.owned[w.id] != null, el = document.createElement('div'); el.className = 'w' + (seen ? '' : ' off'); el.title = w.parts ? w.parts.map(p => WBY[p].name).join('+') : '';
-      el.innerHTML = `<canvas width="56" height="56"></canvas>${seen ? w.name : '???'}<small>${w.parts ? (seen ? w.parts.map(p => WBY[p].name).join('+') : w.tier + '단 · ' + (w.els.length === 1 ? `<span class="el-${w.els[0]}">${EL_NAME[w.els[0]]}</span>` : TYPE_NAME[w.types[0]]) + ' 계열') : `<span class="el-${w.el}">${EL_NAME[w.el]}·${TYPE_NAME[w.type]}</span>`}</small>`;
+      el.innerHTML = `<canvas width="56" height="56"></canvas>${seen ? w.name : '???'}<small>${w.parts ? (seen ? w.parts.map(p => WBY[p].name).join('+') : w.tier + '단 · ' + (w.els.length === 1 ? `<span class="el-${w.els[0]}">${EL_NAME[w.els[0]]}</span>` : TYPE_NAME[w.types[0]]) + ' 계열') : `<span class="el-${w.el || 'none'}">${wTag(w)}</span>`}</small>`;
       drawIcon(el.querySelector('canvas'), { d:w }, 1.3); if (!seen) el.querySelector('canvas').style.opacity = .3; wg.appendChild(el); } b.appendChild(wg);
     for (const st of STAGES_LIVE) { const h = document.createElement('p'); h.className = 'msg'; h.innerHTML = `<b style="color:#e8c15a">${st.name}</b> · ${st.els.map(e => `<span class="el-${e}">${EL_NAME[e]}</span>`).join(' ')}`; b.appendChild(h);
       const g = document.createElement('div'); g.className = 'grid'; g.style.gridTemplateColumns = 'repeat(4,1fr)'; g.style.marginBottom = '8px';
@@ -798,7 +832,7 @@ function renderShrine() {
         const cx = el.querySelector('canvas').getContext('2d'); const sp = sprite(e.spr, 0, false); cx.imageSmoothingEnabled = false; const k = Math.min(48 / sp.width, 48 / sp.height); if (!seen) cx.globalAlpha = .25; cx.drawImage(sp, 28 - sp.width * k / 2, 28 - sp.height * k / 2, sp.width * k, sp.height * k); }
       b.appendChild(g); } }
 }
-function gacha() { if (META.shards < GACHA_COST) return null; META.shards -= GACHA_COST; const w = WEAPONS[Math.floor(Math.random() * WEAPONS.length)]; let html;
+function gacha() { if (META.shards < GACHA_COST) return null; META.shards -= GACHA_COST; const pool = gachaPool(), w = pool[Math.floor(Math.random() * pool.length)]; let html;
   if (META.owned[w.id] == null) { META.owned[w.id] = 0; if (META.deck.length < 10) META.deck.push(w.id); html = `<span class="el-${w.el}">✦ ${w.name}</span> 획득!<br><small>${EL_NAME[w.el]}·${TYPE_NAME[w.type]} — 덱에 추가됨</small>`; SND.dawn(); }
   else { META.owned[w.id] = Math.min(10, META.owned[w.id] + 1); html = `<span class="el-${w.el}">${w.name}</span> 숙련 ${META.owned[w.id]}<br><small>피해 +${META.owned[w.id] * 5}%</small>`; SND.levelup(); }
   saveMeta(); renderShrine(); const out = document.getElementById('gachaOut'); if (out) out.innerHTML = html; return w; }
@@ -824,7 +858,7 @@ let last = 0, frameMs = [];
 function frame(ts) { let dt = (ts - last) / 1000 || 0; last = ts; if (dt > .1) dt = .1; const t0 = performance.now();
   if (S.mode === 'play') tick(dt); fx(dt); draw(); if (TEST) { frameMs.push(performance.now() - t0); if (frameMs.length > 600) frameMs.shift(); } requestAnimationFrame(frame); }
 requestAnimationFrame(frame);
-if (TEST) window.GAME = { S, P, E, B, G, EB, ZONE, CHESTS, META, WBY, ENEMY, GRIDS, EVOS, EBY, evoOptions, weaponOf, dmgOf, affinity, gacha, openShrine, renderShrine, openChal, CHAL_DECK, TRAIN, trainCost, hitWith, migrate, isoWeek, hashStr, openChest, bossPattern, nearObst, ELITE_AT, C, STAGES, WEAPONS, PASSIVES, tick, startGame, endRun, spawn, kill, levelUp, pick, choices, inputVec, KEY, JOY, frameMs: () => frameMs, enemyHp, hurtEnemy };
+if (TEST) window.GAME = { S, P, E, B, G, EB, ZONE, CHESTS, META, WBY, ENEMY, GRIDS, EVOS, EBY, evoOptions, weaponOf, dmgOf, WCD, dropGem, affinity, gacha, openShrine, renderShrine, openChal, CHAL_DECK, TRAIN, trainCost, hitWith, migrate, isoWeek, hashStr, openChest, bossPattern, nearObst, ELITE_AT, C, STAGES, WEAPONS, PASSIVES, tick, startGame, endRun, spawn, kill, levelUp, pick, choices, inputVec, KEY, JOY, frameMs: () => frameMs, enemyHp, hurtEnemy };
 </script>
 </body>
 </html>
